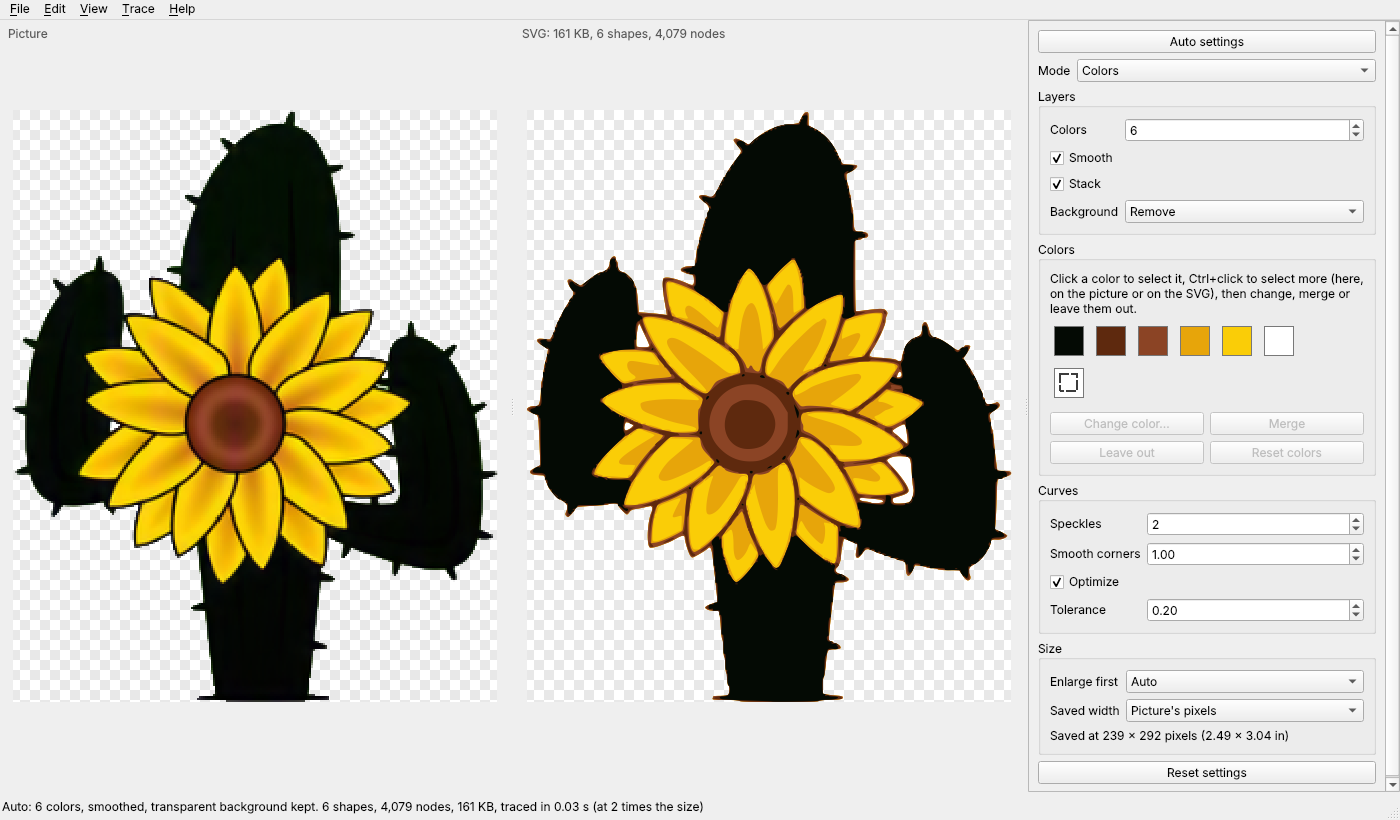
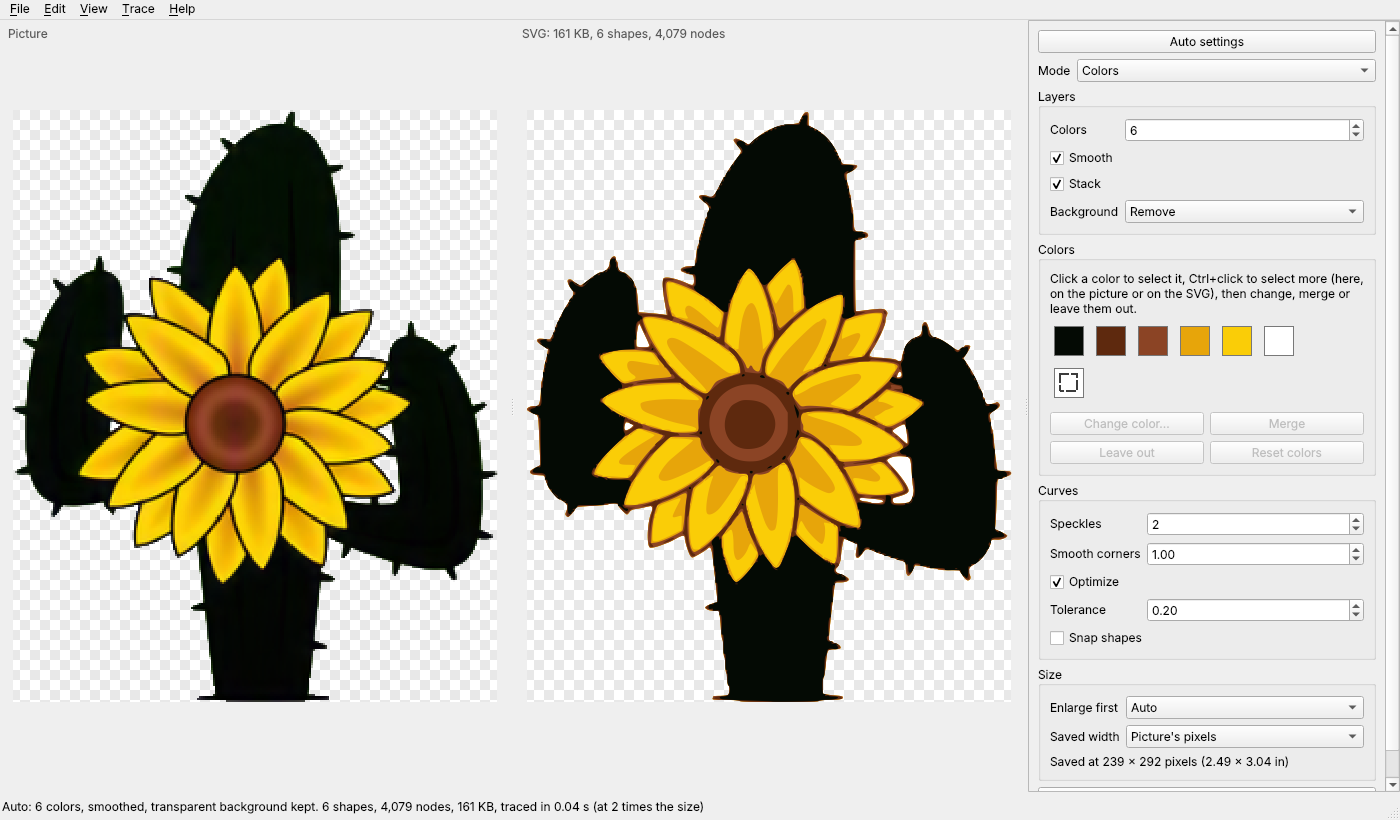
KanzonasSVG 1.4: Convert many pictures, Snap shapes, outlines, eraser, Open recent, the help in chapters with a search, Spanish (one release: notes, CHANGELOG and version together; screenshots)
Claude-Session: https://claude.ai/code/session_01Ho1n52Zg59vnp58FuFfp21

Changed region(s): [[0.7371, 0.8232, 0.9829, 0.9756], [0.7371, 0.7622, 0.8293, 0.7927], [0.3993, 0.9756, 0.4914, 1.0]]

diff --git a/core/src/kzsvg.h b/core/src/kzsvg.h
@@ -74,7 +74,7 @@ typedef struct kz_options {
     int preserve_width;     /* Autotrace centerline: keep line widths (1/0) */
     int nedits;             /* colors, grays, Autotrace colors: how many color edits in <edits> */
     const kz_color_edit *edits;
-    int snap;               /* Potrace: snap outlines to what they were drawn as (since 1.5): 1 straight
+    int snap;               /* Potrace: snap outlines to what they were drawn as (since 1.4): 1 straight
                                lines, 2 level and upright lines, 4 ellipses and circles; 7 all; 0 off */
 } kz_options;
 
@@ -146,7 +146,7 @@ KZ_API int kz_auto(const unsigned char *rgba, int width, int height, int stride,
 KZ_API void *kz_drawing_open(const char *svg);
 KZ_API int kz_drawing_render(void *drawing, unsigned char *out, int width, int height, int stride, double left,
                              double top, double target_width, double target_height);
-/* The same place drawn as outlines (View > Show outlines, since 1.6): each shape's outline one
+/* The same place drawn as outlines (View > Show outlines, since 1.4): each shape's outline one
  * pixel wide in dark gray over what's in <out>, and with <nodes> the points the paths go
  * through as small blue squares. */
 KZ_API int kz_drawing_render_outlines(void *drawing, unsigned char *out, int width, int height, int stride,

diff --git a/tests/engine_battery.cpp b/tests/engine_battery.cpp
@@ -203,7 +203,7 @@ kz_options make_options(Rng &r)
     o.error_threshold = rnd(r, 0, 9) == 0 ? rndf(r, -10, 1e9) : rndf(r, 0.5, 4);
     o.filter_iterations = rnd(r, 0, 9) == 0 ? rnd(r, -10, 1000) : rnd(r, 0, 8);
     o.preserve_width = rnd(r, 0, 1);
-    // snap shapes (1.5): all, any of them, off, or a wrong value (a caller's mistake)
+    // snap shapes (1.4): all, any of them, off, or a wrong value (a caller's mistake)
     o.snap = rnd(r, 0, 9) == 0 ? rnd(r, -5, 300) : rnd(r, 0, 1) ? 7 : rnd(r, 0, 7);
     if (rnd(r, 0, 9) == 0) {
         o.threshold = NAN;
@@ -426,7 +426,7 @@ int main(int argc, char **argv)
                 }
                 eff.scans = std::max(2, std::min(256, eff.scans));
                 check_svg(svg, p, n, eff, errs);
-                // drawn as the window draws it, filled and as outlines (1.6), at any size and
+                // drawn as the window draws it, filled and as outlines (1.4), at any size and
                 // place (off the buffer, zoomed far in): within the buffer, never past it
                 if (rnd(r, 0, 2) == 0) {
                     void *d = kz_drawing_open(svg);

diff --git a/tests/test_i18n.py b/tests/test_i18n.py
@@ -1,4 +1,4 @@
-"""KanzonasSVG in Spanish (1.7): every text translated with the same %s and %d, the window and
+"""KanzonasSVG in Spanish (1.4): every text translated with the same %s and %d, the window and
 the help in Spanish, View > Language, the command line in English, Qt's own Spanish."""
 
 import io

diff --git a/tests/test_help_window.py b/tests/test_help_window.py
@@ -1,4 +1,4 @@
-"""Help > How to use KanzonasSVG (1.6): numbered chapters, the chapter list, the search."""
+"""Help > How to use KanzonasSVG (1.4): numbered chapters, the chapter list, the search."""
 
 import re
 import unittest

diff --git a/tests/test_picture_tools.py b/tests/test_picture_tools.py
@@ -1,5 +1,5 @@
 """View > Show outlines (the engine's outline drawing), File > Open recent, and Trace > Erase on
-the picture (1.6)."""
+the picture (1.4)."""
 
 import os
 import tempfile

diff --git a/kanzonassvg/__init__.py b/kanzonassvg/__init__.py
@@ -1,4 +1,4 @@
 """KanzonasSVG: turn pictures (logos, drawings, scans) into SVG files."""
 
-__version__ = "1.7"
+__version__ = "1.4"
 APP_NAME = "KanzonasSVG"

diff --git a/CHANGELOG.md b/CHANGELOG.md
@@ -2,10 +2,7 @@
 
 | Version | Date | Commit | What changed |
 |---|---|---|---|
-| 1.7 | 2026-11-21 | (this one) | KanzonasSVG in Spanish: *View > Language* (Automatic, English, Español; at the next start). Every text the window shows goes through tr() (kanzonassvg/i18n.py, as KanzonasPDF's) with the translations in kanzonassvg/locale/es.po (257 texts), the help in Spanish (kanzonassvg/help_es.py, the same 16 chapters), Qt's own buttons and dialogs from Qt's qtbase_es; pieces glued into sentences and plurals made of parts rewritten as whole sentences; thousands written 4.079 in Spanish (a comma is its decimal mark). The command line stays English; the update box's notes are in English. The help gets a Language chapter. Tests: tests/test_i18n.py (every text translated with the same %s/%d in order, no stale entries, the Spanish help naming every menu command as the Spanish menu shows it, the window, help and a trace in Spanish, the Language menu, the command line in English, Qt's Spanish); self test "Spanish" in the finished programs; the tests, batteries, self test and screenshots run in English whatever the computer's language. |
-| 1.6 | 2026-11-21 | (this one) | *View > Show outlines* (Ctrl+L): the SVG drawn as its outlines, 1 screen pixel wide in dark gray (half a pixel over, so lines on whole pixels are one dark pixel, not two gray ones), nodes as blue squares at 150% zoom or more or when 3,000 or fewer; by the engine (kz_drawing_render_outlines, off Python's lock), kept for next time. *Trace > Erase on the picture* (Ctrl+E, [ and ] for the size, Esc to stop): strokes dragged on the picture made see-through, kept in the opened picture's pixels (crop and uncrop keep them), part of Undo; *Restore the picture* (Ctrl+Shift+E); the file never changes. *File > Open recent*: the last 10 pictures, a missing one said and taken off, *Clear the list*. The help: numbered chapters with a rule between them, a chapter list (following the scroll), and a search (Ctrl+F) marking every match, counting them in each chapter, Enter/F3 and Shift+Enter; it no longer blocks the window. Tests: tests/test_picture_tools.py, tests/test_help_window.py; self test "outlines and erasing"; app battery steps erase, outlines, recent, and a check that the picture traced is the opened one with its erasing and crop; the engine battery and the fuzzer now draw every trace (filled and outlines, any size and place) and check nothing is written past the buffer (they didn't draw before). |
-| 1.5 | 2026-11-21 | (this one) | **Snap shapes** (Curves; `--snap`; kz_options.snap, core/src/snap.h): on each Potrace outline, a curve within 0.5 px and 1.5% of its length of its chord becomes a line, lines going on in one direction (within 0.35 px and 3%) one line; lines within 1.5 degrees (and 4 px) of level or upright exactly so (the points they join sharing one y or x, curves keeping their direction from a moved point); an outline within 0.5 px (0.4% of the radius when bigger) of an ellipse with level axes, going round once, that ellipse (a circle when the radii are within 2%), fitted on the equation then refined on the distances, as four exact arcs, the way it went round (holes stay holes). Off at first; Auto leaves it as set (also Convert many pictures' Auto); Undo, Reset settings, kept; not in Autotrace. Measured with Auto settings, off then on (badly wrong pixels, nodes): logo 0.253% 761 / 0.273% 677; logo JPEG 0.327% 756 / 0.333% 672; logo alpha 0.254% 1028 / 0.273% 921; smiley 0.238% 348 / 0.298% 250 (its face's ring isn't quite round in the picture: two perfect circles even it out); plan 0.001% 4464 / 0.001% 4337; Starry Night 2.865% 106784 / 2.873% 106439; sunflower 2.367% 4079 / 2.442% 3994; flat illustration 0.278% 4452 / 0.387% 2663. Off, the SVG is byte for byte what it was (tests/reference/quality.json unchanged). Tests: tests/test_snap.py; the engine battery and the fuzzer try it. |
-| 1.4 | 2026-11-21 | (this one) | Many pictures at once in the window: *File > Convert many pictures...* (Ctrl+Shift+O), also when several pictures are picked in Open picture or dragged in, or a folder (kanzonassvg/batch.py). A list (add pictures, a folder's pictures but not its SVGs, drag in, remove, clear), Auto settings for each picture (the same SVG as opening it) or the settings shown (not the color edits or crop), SVG/PDF/EPS/DXF at the Saved width, next to each picture or in one folder (made if needed), files already there skipped unless Replace is on. One picture at a time in the background; each row says saved (shapes, nodes), skipped or why it failed, and the next is done anyway; Stop stops at once (closing the window too). Fixed before release (the app battery's new step found it): stopped before the first picture, the summary went back to "N pictures"; regression test. Tests: tests/test_batch.py; self test "converting many"; app battery step "many". |
+| 1.4 | 2026-11-21 | (this one) | Four pieces in one release. **Convert many pictures**: Many pictures at once in the window: *File > Convert many pictures...* (Ctrl+Shift+O), also when several pictures are picked in Open picture or dragged in, or a folder (kanzonassvg/batch.py). A list (add pictures, a folder's pictures but not its SVGs, drag in, remove, clear), Auto settings for each picture (the same SVG as opening it) or the settings shown (not the color edits or crop), SVG/PDF/EPS/DXF at the Saved width, next to each picture or in one folder (made if needed), files already there skipped unless Replace is on. One picture at a time in the background; each row says saved (shapes, nodes), skipped or why it failed, and the next is done anyway; Stop stops at once (closing the window too). Fixed before release (the app battery's new step found it): stopped before the first picture, the summary went back to "N pictures"; regression test. Tests: tests/test_batch.py; self test "converting many"; app battery step "many". **Snap shapes**: (Curves; `--snap`; kz_options.snap, core/src/snap.h): on each Potrace outline, a curve within 0.5 px and 1.5% of its length of its chord becomes a line, lines going on in one direction (within 0.35 px and 3%) one line; lines within 1.5 degrees (and 4 px) of level or upright exactly so (the points they join sharing one y or x, curves keeping their direction from a moved point); an outline within 0.5 px (0.4% of the radius when bigger) of an ellipse with level axes, going round once, that ellipse (a circle when the radii are within 2%), fitted on the equation then refined on the distances, as four exact arcs, the way it went round (holes stay holes). Off at first; Auto leaves it as set (also Convert many pictures' Auto); Undo, Reset settings, kept; not in Autotrace. Measured with Auto settings, off then on (badly wrong pixels, nodes): logo 0.253% 761 / 0.273% 677; logo JPEG 0.327% 756 / 0.333% 672; logo alpha 0.254% 1028 / 0.273% 921; smiley 0.238% 348 / 0.298% 250 (its face's ring isn't quite round in the picture: two perfect circles even it out); plan 0.001% 4464 / 0.001% 4337; Starry Night 2.865% 106784 / 2.873% 106439; sunflower 2.367% 4079 / 2.442% 3994; flat illustration 0.278% 4452 / 0.387% 2663. Off, the SVG is byte for byte what it was (tests/reference/quality.json unchanged). Tests: tests/test_snap.py; the engine battery and the fuzzer try it. **Outlines, eraser, Open recent, the help**: *View > Show outlines* (Ctrl+L): the SVG drawn as its outlines, 1 screen pixel wide in dark gray (half a pixel over, so lines on whole pixels are one dark pixel, not two gray ones), nodes as blue squares at 150% zoom or more or when 3,000 or fewer; by the engine (kz_drawing_render_outlines, off Python's lock), kept for next time. *Trace > Erase on the picture* (Ctrl+E, [ and ] for the size, Esc to stop): strokes dragged on the picture made see-through, kept in the opened picture's pixels (crop and uncrop keep them), part of Undo; *Restore the picture* (Ctrl+Shift+E); the file never changes. *File > Open recent*: the last 10 pictures, a missing one said and taken off, *Clear the list*. The help: numbered chapters with a rule between them, a chapter list (following the scroll), and a search (Ctrl+F) marking every match, counting them in each chapter, Enter/F3 and Shift+Enter; it no longer blocks the window. Tests: tests/test_picture_tools.py, tests/test_help_window.py; self test "outlines and erasing"; app battery steps erase, outlines, recent, and a check that the picture traced is the opened one with its erasing and crop; the engine battery and the fuzzer now draw every trace (filled and outlines, any size and place) and check nothing is written past the buffer (they didn't draw before). **Spanish**: KanzonasSVG in Spanish: *View > Language* (Automatic, English, Español; at the next start). Every text the window shows goes through tr() (kanzonassvg/i18n.py, as KanzonasPDF's) with the translations in kanzonassvg/locale/es.po (257 texts), the help in Spanish (kanzonassvg/help_es.py, the same 16 chapters), Qt's own buttons and dialogs from Qt's qtbase_es; pieces glued into sentences and plurals made of parts rewritten as whole sentences; thousands written 4.079 in Spanish (a comma is its decimal mark). The command line stays English; the update box's notes are in English. The help gets a Language chapter. Tests: tests/test_i18n.py (every text translated with the same %s/%d in order, no stale entries, the Spanish help naming every menu command as the Spanish menu shows it, the window, help and a trace in Spanish, the Language menu, the command line in English, Qt's Spanish); self test "Spanish" in the finished programs; the tests, batteries, self test and screenshots run in English whatever the computer's language. |
 | 1.3 | 2026-11-21 | (this one) | Saving for cutting machines, lasers and printers: *File > Save...* and *Save as...* (were Save SVG) save as SVG, PDF, EPS or DXF (the type picked, or the extension; kanzonassvg/export.py): PDF and EPS one page, the path numbers copied under a scale (exact; PDF drawn by PyMuPDF matches the SVG pixel for pixel), DXF R12 (read by nearly every CAD, laser and cutting program) with one layer per color named by it (COLOR_FF0000) in the nearest AutoCAD color, curves as straight pieces within 0.025 mm, in mm or inches. **Saved width** (Size): the picture's pixels (96 to the inch) or a width in inches or mm, the height following; it changes only the file (and Copy SVG), not the trace, and is kept. PDF, EPS and DXF are written in the background. The SVG has one group for each color (an Inkscape layer, named by its color; a color coming back above another in Autotrace gets a second group, the order kept) and says the program's version (it said the engine's, 1.0). The node count (the points the outlines go through) above the SVG and in the status bar. Command line: --format, --width 4in/100mm, the -o extension picks the type. Tests: tests/test_export.py (each format drawn or read back and compared with the SVG: PDF with PyMuPDF, EPS with Ghostscript, DXF read with ezdxf and drawn with Qt; tests only, in constraints.txt; Ghostscript on the Linux build), the self test saves all four, the app battery saves in random formats and sizes, the engine battery checks the groups. |
 | 1.2.3 | 2026-11-17 | 851742d | The settings panel no longer moves when the number of colors changes (the owner: the mouse was no longer over the Colors arrows): more colors (more rows of swatches) brought the panel's scroll bar, which made it 14 px narrower and moved the arrows sideways; it's now always shown (grayed when there's nothing to scroll: keeping room for it instead missed by 8 px on GitHub's Linux machine, its width depending on the style). And with wider fonts (GitHub's Linux machine) the panel was narrower than its contents: a scroll bar across came and went with the rows of swatches and the contents widened 14 px under the mouse; the swatch grid now always keeps its six columns, each as wide as a swatch measures on that system, and the panel's minimum width follows its contents (worked out again whenever they change, only ever wider). Fewer colors, with the panel scrolled to the bottom, pulled everything 42 px down; the Colors box now keeps the height it has had for the picture (a new picture starts compact), its swatches at the top left. Test: the arrows stay put through 8, 24, 40, 6, 30 and 3 colors in a 900 and a 600 px window (they moved without the fix), with the panel squeezed to its minimum as on GitHub's machine. README: new screenshots (the window as it is now: the Edit menu, the SVG's size, the background's own swatch; tools/make_screenshots.py named the merge color, as merge() asks since 1.2.1) and their alt texts. Slop check: British spellings matched as stems (one with an ending added got past it in this very row) and it reads CHANGELOG.md and the Colors box's text too. |
 | 1.2.2 | 2026-11-16 | 1d99723 | Colors: the background is a swatch of its own (a dashed frame), apart from the same color inside the picture: merging, changing or leaving out the white inside a letter changed the whole background with it (the owner's report: "if the color is the same as the background, it merges all of it"). The background is the background color's area reaching the edge, or the transparent part: what Background: Remove leaves out, found before any edit (so Remove still takes it whatever it's traced as, and a color merged into the background's color stays a shape). Clicking the background selects its swatch, that color inside the picture the other; the background color's stray pixels inside (under 0.05% of the picture) go with its swatch. Engine: kz_color_edit.where (everywhere, inside, the background: an edit for the area over one for everywhere); when the background's edit isn't the inside's it's a layer of its own (stacked, the bottom one); kz_palette gives the background as one more color and its pixels (a mask). With no edits the SVG is the same as before. The command line's --recolor and --leave-out still change a color everywhere. Tests: tests/test_colors.py (the background apart from the inside in the engine and the window, an edit for the area over one for everywhere, Remove with edits, stray pixels, clicks); random areas (and nonsense) in the engine battery's edits. |

diff --git a/RELEASE_NOTES.md b/RELEASE_NOTES.md
@@ -2,31 +2,6 @@
 
 Short, plain-language notes for each version; the release text on GitHub is made from them.
 
-## 1.7
-
-New:
-- **KanzonasSVG in Spanish** (View > Language: Automatic, English or Español): menus, settings,
-  messages and the help. It switches the next time KanzonasSVG starts.
-
-## 1.6
-
-New:
-- **Show outlines** (View menu, Ctrl+L): see the SVG as its outlines, with its nodes.
-- **Erase on the picture** (Trace menu, Ctrl+E): wipe out parts of the picture (a watermark, a
-  smudge, text beside a logo) before it's traced. Undo takes strokes back; the picture file
-  never changes.
-- **Open recent** (File menu): the last 10 pictures you opened.
-- The help (F1) is in numbered chapters, with a list to jump to them and a search box that
-  marks every match. It can stay open while you work.
-
-## 1.5
-
-New:
-- **Snap shapes** (under Curves): edges that are almost straight come out straight, nearly
-  level or upright lines exactly level or upright, and round shapes perfect circles and
-  ellipses. Square corners stay square, and files get smaller, for cutting machines, lasers,
-  CAD and clean logos. It's off at first; Auto leaves it as you set it.
-
 ## 1.4
 
 New:
@@ -34,6 +9,19 @@ New:
   folder, in one go, each with Auto settings or all with the settings shown, and save them as
   SVG, PDF, EPS or DXF next to each picture or in one folder. Picking or dragging several
   pictures into the window opens it too.
+- **Snap shapes** (under Curves): edges that are almost straight come out straight, nearly
+  level or upright lines exactly level or upright, and round shapes perfect circles and
+  ellipses. Square corners stay square, and files get smaller, for cutting machines, lasers,
+  CAD and clean logos. It's off at first; Auto leaves it as you set it.
+- **Show outlines** (View menu, Ctrl+L): see the SVG as its outlines, with its nodes.
+- **Erase on the picture** (Trace menu, Ctrl+E): wipe out parts of the picture (a watermark, a
+  smudge, text beside a logo) before it's traced. Undo takes strokes back; the picture file
+  never changes.
+- **Open recent** (File menu): the last 10 pictures you opened.
+- The help (F1) is in numbered chapters, with a list to jump to them and a search box that
+  marks every match. It can stay open while you work.
+- **KanzonasSVG in Spanish** (View > Language: Automatic, English or Español): menus, settings,
+  messages and the help. It switches the next time KanzonasSVG starts.
 
 ## 1.3
 
